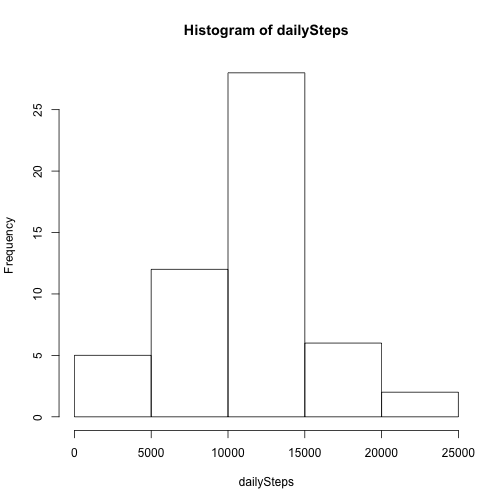
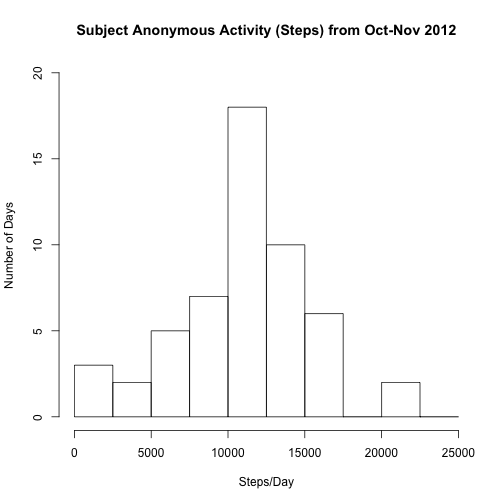
addition of mean and median calculations along with cleaned up hisogram

diff --git a/PA1_template.html b/PA1_template.html
@@ -213,12 +213,47 @@ unzip(zipfile)
 
 <p>Create a histogram of the total number of steps taken each day</p>
 
-<pre><code class="r">hist(dailySteps)
+<pre><code class="r">hist(dailySteps, breaks = c(0,2500,5000,7500, 10000,12500,15000,17500,20000, 22500, 25000), main = paste(&quot;Subject Anonymous Activity (Steps) from Oct-Nov 2012&quot;), xlab = &quot;Steps/Day&quot;, ylab = &quot;Number of Days&quot; , ylim = c(0,20))
 </code></pre>
 
[2 lines of base64/hex data omitted]
 
 <h2>What is mean total number of steps taken per day?</h2>
+
+<pre><code class="r">print(summary(dailySteps))
+</code></pre>
+
+<pre><code>##    Min. 1st Qu.  Median    Mean 3rd Qu.    Max.    NA&#39;s 
+##      41    8840   10800   10800   13300   21200       8
+</code></pre>
+
+<pre><code class="r">theMean &lt;- as.numeric(summary(dailySteps)[&quot;Mean&quot;])
+textMean &lt;- paste(&quot;The Mean Number of Steps/Day :&quot;, theMean)
+print(theMean)
+</code></pre>
+
+<pre><code>## [1] 10800
+</code></pre>
+
+<pre><code class="r">print(textMean)
+</code></pre>
+
+<pre><code>## [1] &quot;The Mean Number of Steps/Day : 10800&quot;
+</code></pre>
+
+<pre><code class="r">theMedian &lt;- as.numeric(summary(dailySteps)[&quot;Median&quot;])
+textMedian &lt;- paste(&quot;The Median Number of Steps/Day :&quot;, theMedian)
+print(theMedian)
+</code></pre>
+
+<pre><code>## [1] 10800
+</code></pre>
+
+<pre><code class="r">print(textMedian)
+</code></pre>
+
+<pre><code>## [1] &quot;The Median Number of Steps/Day : 10800&quot;
+</code></pre>
 
 <h2>What is the average daily activity pattern?</h2>
 

diff --git a/PA1_template.md b/PA1_template.md
@@ -37,14 +37,60 @@ Create a histogram of the total number of steps taken each day
 
 
 ```r
-hist(dailySteps)
+hist(dailySteps, breaks = c(0,2500,5000,7500, 10000,12500,15000,17500,20000, 22500, 25000), main = paste("Subject Anonymous Activity (Steps) from Oct-Nov 2012"), xlab = "Steps/Day", ylab = "Number of Days" , ylim = c(0,20))
 ```
 
 ![plot of chunk plotHistogram](figure/plotHistogram.png) 
 
+
+
 ## What is mean total number of steps taken per day?
 
 
+```r
+print(summary(dailySteps))
+```
+
+```
+##    Min. 1st Qu.  Median    Mean 3rd Qu.    Max.    NA's 
+##      41    8840   10800   10800   13300   21200       8
+```
+
+```r
+theMean <- as.numeric(summary(dailySteps)["Mean"])
+textMean <- paste("The Mean Number of Steps/Day :", theMean)
+print(theMean)
+```
+
+```
+## [1] 10800
+```
+
+```r
+print(textMean)
+```
+
+```
+## [1] "The Mean Number of Steps/Day : 10800"
+```
+
+```r
+theMedian <- as.numeric(summary(dailySteps)["Median"])
+textMedian <- paste("The Median Number of Steps/Day :", theMedian)
+print(theMedian)
+```
+
+```
+## [1] 10800
+```
+
+```r
+print(textMedian)
+```
+
+```
+## [1] "The Median Number of Steps/Day : 10800"
+```
 
 ## What is the average daily activity pattern?
 
